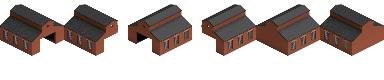
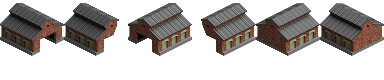
Stations and depot 3D workflow integration, sprites WIP

Changed region(s): [[0.0, 0.025, 1.0, 0.7]]

diff --git a/gfx/process-train-depot.py b/gfx/process-train-depot.py
@@ -1,0 +1,31 @@
+# _resizer.py -r -d 4 -i 32bpp/train-depot/x4/train-depot_0000.png    -o 32bpp/train-depot/x1/train-depot-x1.png
+
+# RGBA-EATER.py -n train-depot/x4/train-depot        -e ALL
+# RGBA-EATER.py -n train-depot/x1/train-depot-x1     -e ALL
+
+# cd ..
+
+# C:\NML\nmlc -c --default-lang=english.lng --grf=BRIX.grf BRIX.nml
+# copy /Y BRIX.grf "C:\Users\V\Documents\OpenTTD\newgrf"
+# pause
+
+
+# Resizing x4 to x1
+from _resizer import resize
+resize(
+    {
+        'input' : '32bpp/train-depot/x4/train-depot.png',
+        'output' : '32bpp/train-depot/x1/train-depot-x1.png',
+        'divider' : 4
+    }
+)
+
+# RGBA Eater
+import subprocess
+subprocess.run(['python', 'RGBA-EATER.py', '-n', 'train-depot/x4/train-depot',    '-e', 'ALL'])
+subprocess.run(['python', 'RGBA-EATER.py', '-n', 'train-depot/x1/train-depot-x1',    '-e', 'ALL'])
+
+# compile the grf etc
+import os
+os.chdir('..')
+subprocess.run(['python', '_SHIT-BRIX_.py'])
